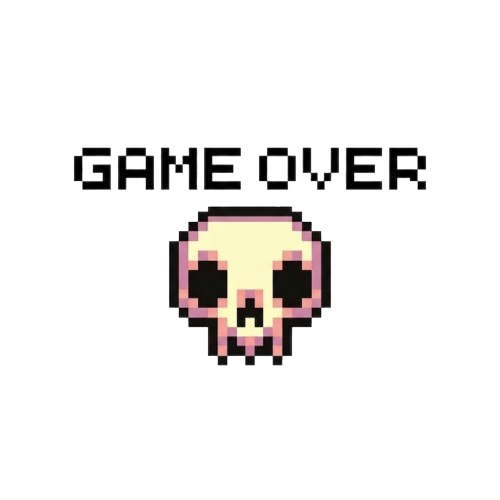
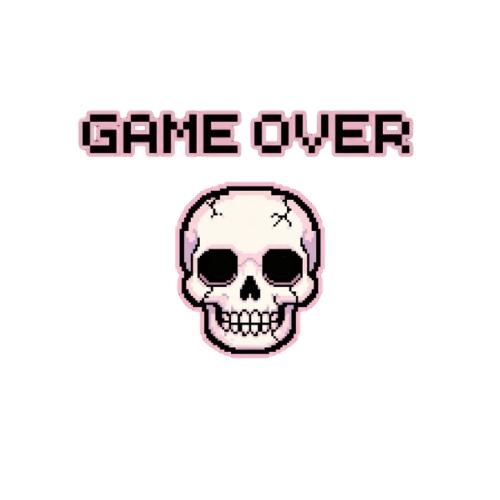
sexto commit

Changed region(s): [[0.15, 0.21, 0.87, 0.75]]

diff --git a/index.js b/index.js
@@ -5,13 +5,18 @@ console.log(canvas)
 let des = canvas.getContext('2d')
 console.log(des)
 
-//=================
 
 let fundo = new Image()
 fundo.src = './imgs/fundo1.png'
 
 let imgGameOver = new Image()
 imgGameOver.src = './imgs/game_over.png'
+
+let imgP1Win = new Image()
+imgP1Win.src = './imgs/player_1_win.png'
+
+let imgP2Win = new Image()
+imgP2Win.src = './imgs/player_2_win.png'
 
 let chao = 600
 
@@ -311,6 +316,12 @@ function desenhaEscolha(){
 // DESENHA
 function desenha() {
 
+    const fonte = new FontFace('QuinqueFive', 'url(./fonts/QuinqueFive.ttf)');
+
+    fonte.load().then(function(font){
+    document.fonts.add(font);
+});
+
     if (estado === "menu"){
         desenhaMenu()
         return
@@ -356,20 +367,91 @@ function desenha() {
 
     } else {
 
-        // 🔥 IMAGEM GAME OVER
-        if(modo === "single"){
-            if(imgGameOver.complete){
-                des.drawImage(imgGameOver, 200, 100, 800, 500)
+    // 🔥 DESFOCA O FUNDO
+    des.filter = "blur(5px)"
+    if (fundo.complete) {
+        des.drawImage(fundo, 0, 0, 1200, 700)
+    }
+    des.filter = "none"
+
+    // 🔥 CAMADA ESCURA
+    des.fillStyle = "rgba(0,0,0,0.5)"
+    des.fillRect(0, 0, 1200, 700)
+
+    // =========================
+    // 🔥 SINGLEPLAYER
+    // =========================
+    if(modo === "single"){
+
+        let larguraImg = 500
+        let alturaImg = 500
+
+        let xCentro = (1200 / 2) - (larguraImg / 2)
+        let yCentro = 80
+
+        if(imgGameOver.complete){
+            des.drawImage(imgGameOver, xCentro, yCentro, larguraImg, alturaImg)
+        }
+
+        des.textAlign = "center"
+
+        t1.des_text(
+            'Pontuação final: ' + playerAtual.pontos,
+            1200/2,
+            yCentro + alturaImg - 20,
+            '#000000',
+            '25px QuinqueFive',
+            '#ffdae7'
+        )
+
+        des.textAlign = "start"
+    }
+
+    // =========================
+    // 🔥 MULTIPLAYER
+    // =========================
+    else if(modo === "multi"){
+
+        let larguraImg = 500
+        let alturaImg = 400
+
+        let xCentro = (1200 / 2) - (larguraImg / 2)
+        let yCentro = 120
+
+        // 🔥 IMAGENS DE VITÓRIA
+            if(imgP1Win.complete){
+                des.drawImage(imgP1Win, xCentro, yCentro, larguraImg, alturaImg)
             }
-    
-            // 🔥 PONTUAÇÃO FINAL
-            t1.des_text(
-                'PONTUAÇÃO FINAL: ' + playerAtual.pontos,
-                350,
-                650,
-                '#FFFFFF',
-                '40px Impact'
-            )
+        
+            if(imgP2Win.complete){
+                des.drawImage(imgP2Win, xCentro, yCentro, larguraImg, alturaImg)
+            }
+        
+
+        // 🔥 TEXTO CENTRALIZADO
+        des.textAlign = "center"
+
+
+        // 🔥 PONTUAÇÃO DOS DOIS (ESTILO IGUAL AO SINGLE)
+    t1.des_text(
+        'Pontuacao Player 1: ' + skatistaM.pontos,
+        1200/2,
+        yCentro + alturaImg + 80,
+        '#000000',
+        '25px QuinqueFive',
+        '#ffdae7'
+)
+
+    t1.des_text(
+        'Pontuacao Player 2: ' + skatistaF.pontos,
+        1200/2,
+        yCentro + alturaImg + 120,
+        '#000000',
+        '25px QuinqueFive',
+        '#ffdae7'
+)
+
+        des.textAlign = "start"
         }
     }
 }

diff --git a/models/Skatista.js b/models/Skatista.js
@@ -164,23 +164,19 @@ class Inimigos extends Obj{
 }
 
 class Text{
-    des_text(text, x, y, cor, font){
-        des.font = font
-    
-        // 🔥 SOMBRA NEON
-        des.shadowColor = cor
-        des.shadowBlur = 15
-    
-        // 🔥 CONTORNO (grafite)
-        des.lineWidth = 4
-        des.strokeStyle = 'black'
-        des.strokeText(text, x, y)
-    
-        // 🔥 TEXTO PRINCIPAL
-        des.fillStyle = cor
-        des.fillText(text, x, y)
-    
-        // 🔥 RESET sombra (IMPORTANTE)
-        des.shadowBlur = 0
+    des_text(text, x, y, cor, font, contorno = 'black'){
+    des.font = font
+
+    des.shadowColor = cor
+    des.shadowBlur = 15
+
+    des.lineWidth = 4
+    des.strokeStyle = contorno
+    des.strokeText(text, x, y)
+
+    des.fillStyle = cor
+    des.fillText(text, x, y)
+
+    des.shadowBlur = 0
     }
 }

diff --git a/style.css b/style.css
@@ -19,3 +19,8 @@ canvas{
     background-size: cover;
     background-position: center;
 }
+
+/* @font-face {
+    font-family: 'QuinqueFive';
+    src: url('./fonts/QuinqueFive.ttf') format('truetype');
+} */
